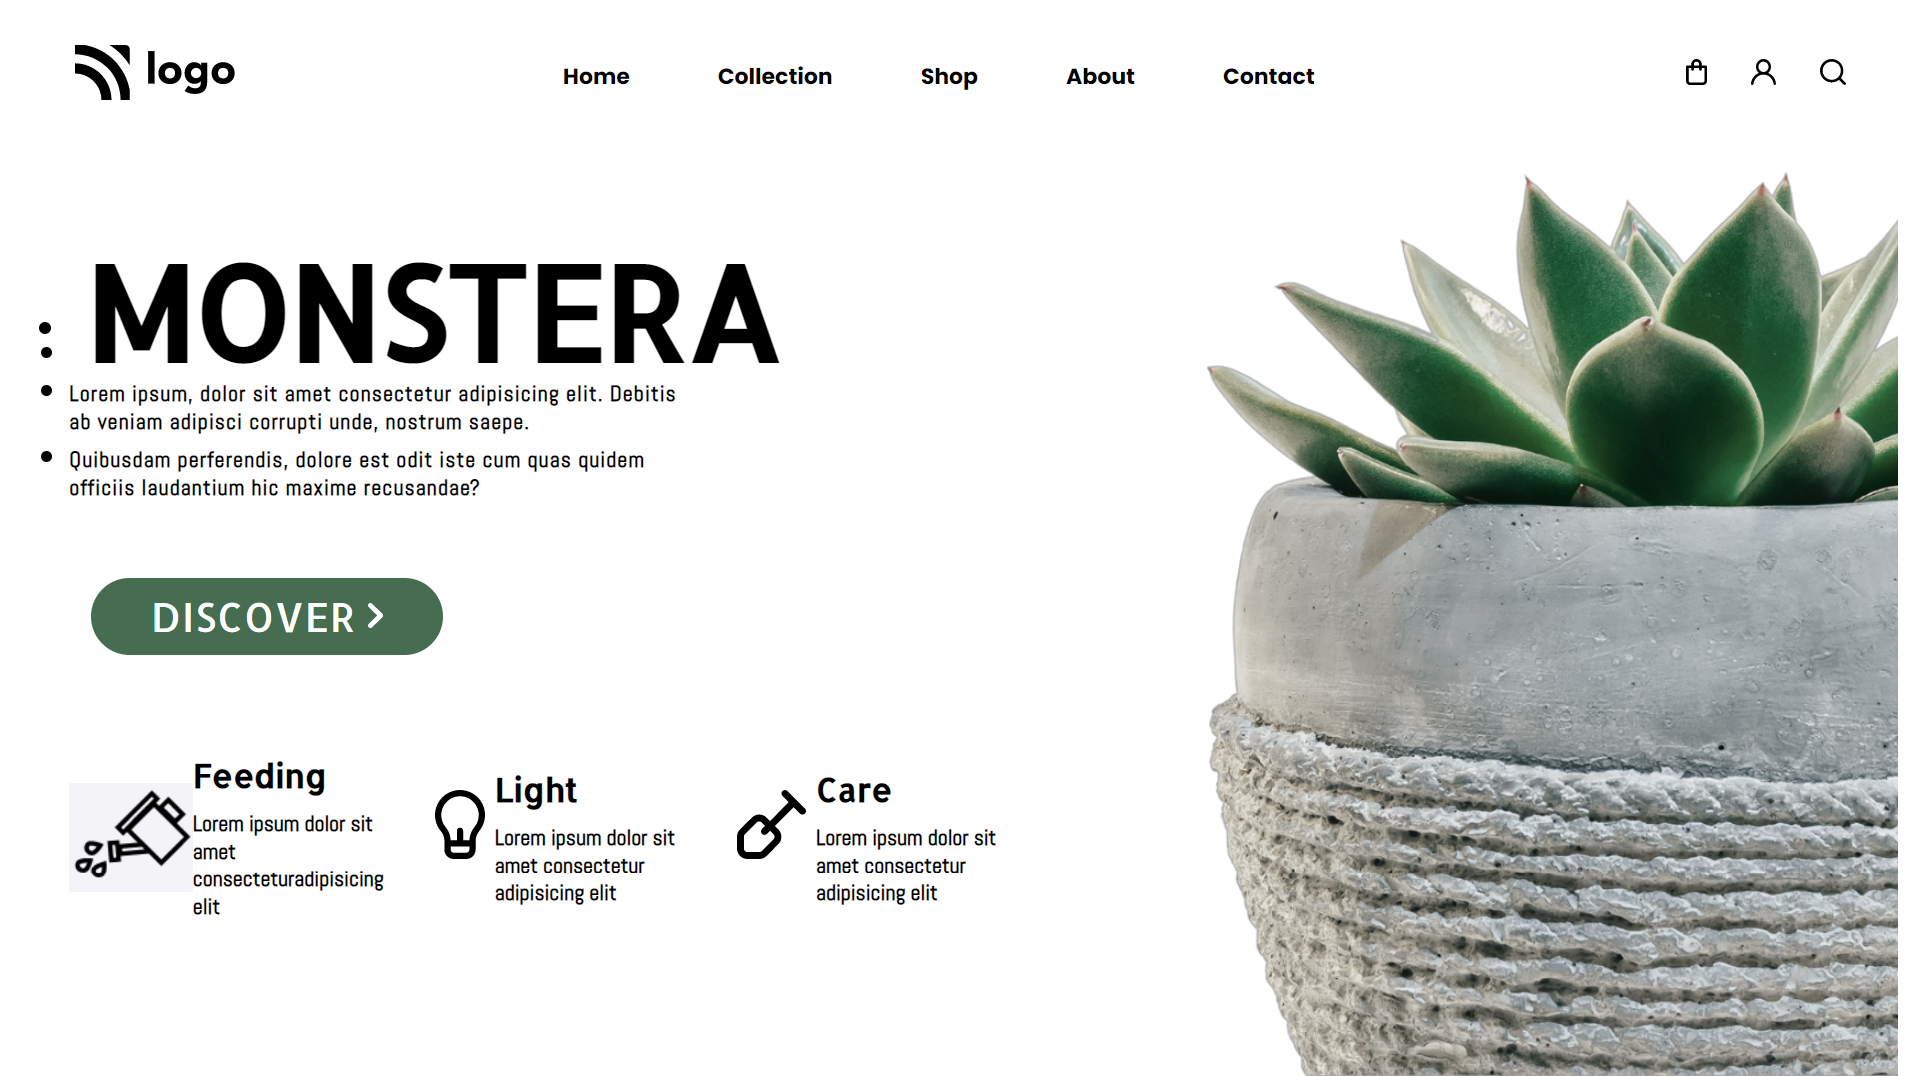
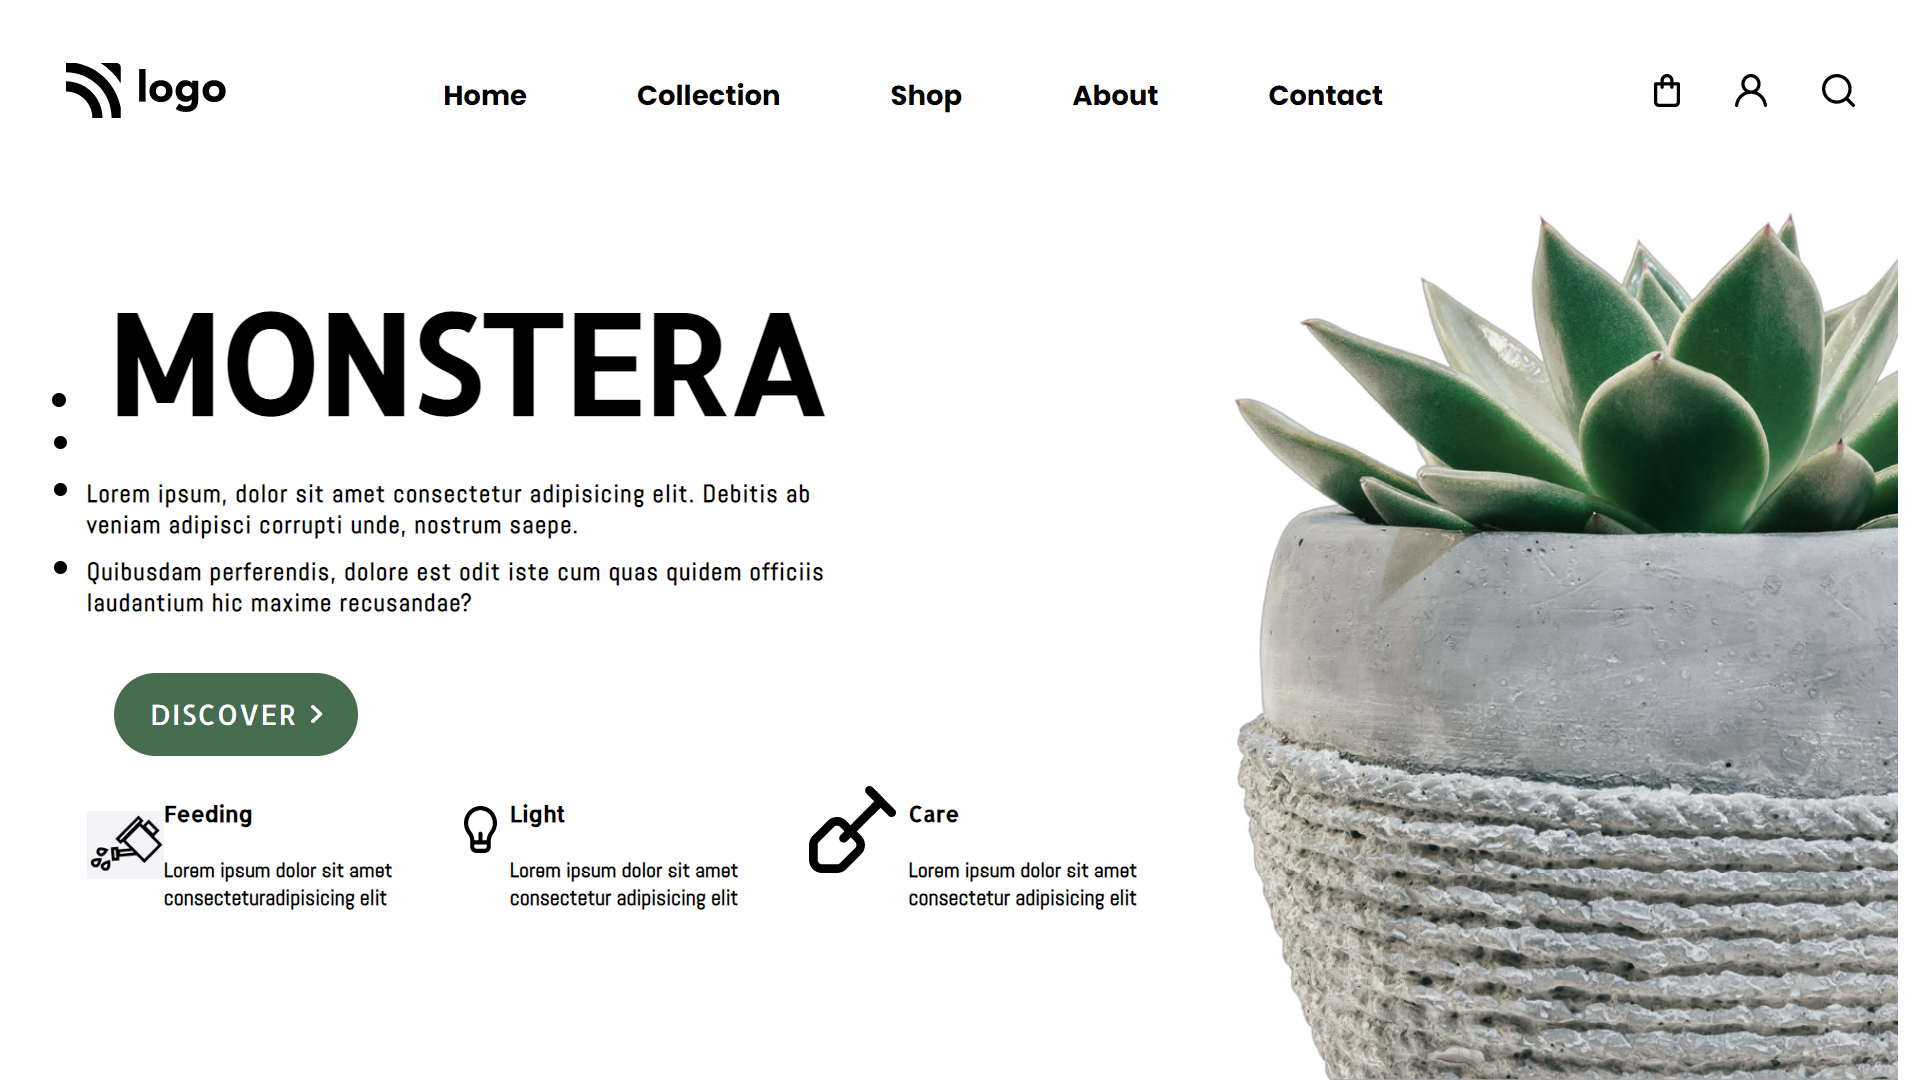
edited the document

diff --git a/index.html b/index.html
@@ -24,11 +24,11 @@
         display: flex;
         align-items: center;
         justify-content: space-between;
-        padding: 1em 3em;
+        padding: 1em 2em;
       }
 
       #navFirst img {
-        height: 2.5em;
+        height: 2em;
         /* padding-left: 45px; */
       }
 
@@ -68,14 +68,12 @@
 
       #monstera {
         letter-spacing: -3px;
-        font-size: 6rem;
+        font-size: 5rem;
         font-family: "Allerta";
         font-weight: 800;
         margin: 0%;
         position: relative;
         margin-left: 15px;
-
-        top: 20px;
         line-height: 80px;
       }
 
@@ -88,7 +86,7 @@
       #midWholePart11 ul li:nth-child(1) ~ li {
         /* color: #000; */
         width:560px;
-        font-size: 20px;
+        font-size: 18px;
         letter-spacing: 1px;  
         font-weight: 600;
         font-family: "Abel";
@@ -98,13 +96,12 @@
       }
 
       #midWholePart121 {
-        margin-top: 50px;
+        margin-top: 20px;
         margin-left: 60px;
-        padding: .5em 1em;
+        padding: .2em 1.3em;
         border-radius: 50px;
-        height: 50px;
+        width: max-content;
         color: #ffffff;
-        width: 280px;
         display: flex;
         align-items: center;
         justify-content: center;
@@ -113,7 +110,7 @@
       }
 
       #midWholePart121 h1 {
-        font-size: 1.8rem;
+        font-size: 1rem;
         font-family: "Allerta";
         font-weight: 400;
         letter-spacing: 1px;
@@ -121,16 +118,15 @@
 
       #midWholePart122 img {
         position: relative;
-        top: 3px;
-        height: 23px;
+        height: 13px;
       }
 
 
       #midWholePart13{
         display: flex;
-        margin-top: 50px;
+        margin-top: 10px;
         margin-left: 2em;
-        gap: 1em;
+        gap: .9em;
       }
 
       .midWholePart13Parts{
@@ -140,7 +136,7 @@
       }
 
       .midWholePart13Parts>div>h4{
-        font-size: 1.5rem;
+        font-size: .8rem;
         font-family:'Allerta' ;
         font-weight: 800;
       }
@@ -148,11 +144,11 @@
       #feeding{
         position: relative;
 
-        height: 100px;
+        height: 50px;
       }
 
       #light{
-        height: 63px;
+        height: 34px;
         margin-right: 9px;
         position: relative;
         bottom: 12px;
@@ -162,8 +158,9 @@
         font-family: 'Abel';
         font-weight: 600;
         position: relative;
-        bottom: 28px;
+        /* bottom: 28px; */
         width: 200px;
+        font-size: .8rem;
       }
 
 
@@ -179,6 +176,10 @@
       right: 0;
       z-index: -1;
       top:150px;
+      }
+
+      #imgMain{
+        height: 100%;
       }
 
 
